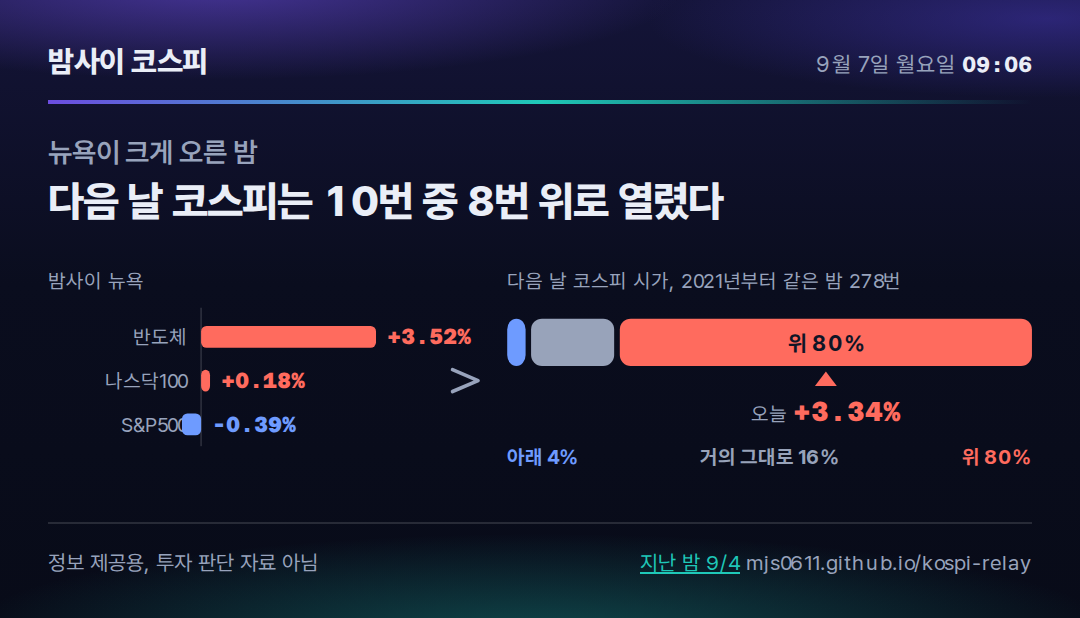
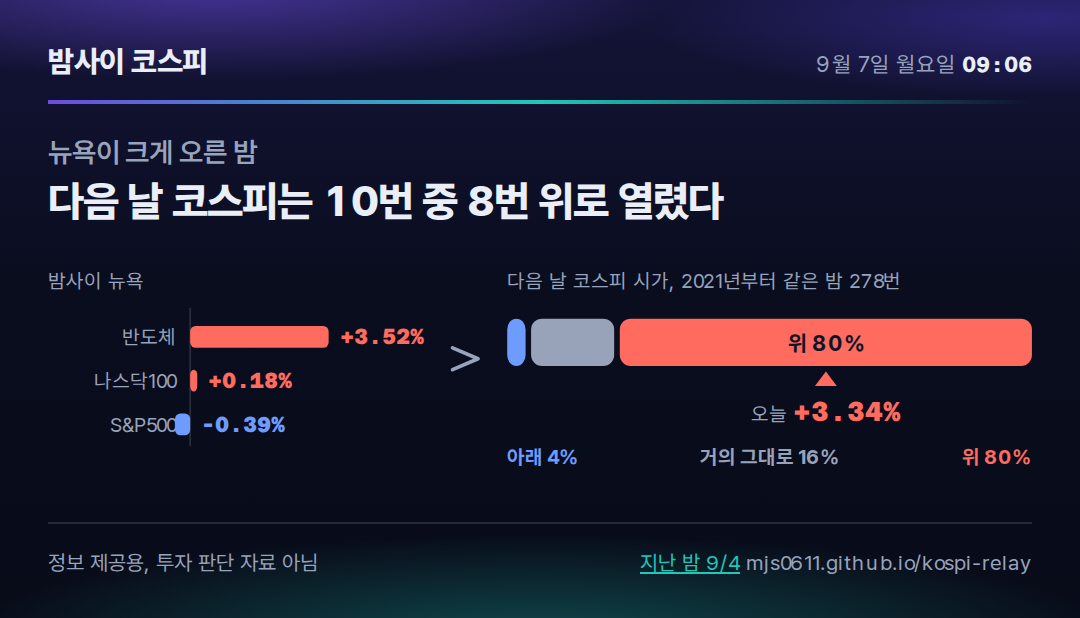
deploy: 02eee11881c2d749679ad032f7b48a28116837a2

Changed region(s): [[0.0917, 0.5227, 0.275, 0.7071], [0.3056, 0.5227, 0.4583, 0.6456]]

diff --git a/2026-09-07/index.html b/2026-09-07/index.html
@@ -37,17 +37,17 @@ footer a{color:var(--dawn)}
 <p class="cond">뉴욕이 크게 오른 밤</p><p class="claim">다음 날 코스피는 10번 중 8번 위로 열렸다</p>
 <div class="chart"><svg viewBox="0 0 540 118" xmlns="http://www.w3.org/2000/svg" font-family="var(--sans)">
 <text x="0" y="13" fill="var(--muted)" font-size="11">밤사이 뉴욕</text>
-<line x1="84" y1="24" x2="84" y2="100" stroke="var(--rule)" stroke-width="1"/>
-<text x="76" y="44" text-anchor="end" fill="var(--muted)" font-size="11">반도체</text>
-<rect x="84.0" y="34" width="96.0" height="12" rx="3" fill="var(--up)"/>
-<text x="186.0" y="44" fill="var(--up)" font-family="var(--mono)" font-size="12" font-weight="800">+3.52%</text>
-<text x="76" y="68" text-anchor="end" fill="var(--muted)" font-size="11">나스닥100</text>
-<rect x="84.0" y="58" width="4.9" height="12" rx="3" fill="var(--up)"/>
-<text x="94.9" y="68" fill="var(--up)" font-family="var(--mono)" font-size="12" font-weight="800">+0.18%</text>
-<text x="76" y="92" text-anchor="end" fill="var(--muted)" font-size="11">S&P500</text>
-<rect x="73.5" y="82" width="10.5" height="12" rx="3" fill="var(--down)"/>
-<text x="90.0" y="92" fill="var(--down)" font-family="var(--mono)" font-size="12" font-weight="800">-0.39%</text>
-<path d="M222,58 L236,64 L222,70" fill="none" stroke="var(--muted)" stroke-width="2" stroke-linecap="round" stroke-linejoin="round"/>
+<line x1="78" y1="24" x2="78" y2="100" stroke="var(--rule)" stroke-width="1"/>
+<text x="70" y="44" text-anchor="end" fill="var(--muted)" font-size="11">반도체</text>
+<rect x="78.0" y="34" width="76.0" height="12" rx="3" fill="var(--up)"/>
+<text x="160.0" y="44" fill="var(--up)" font-family="var(--mono)" font-size="12" font-weight="800">+3.52%</text>
+<text x="70" y="68" text-anchor="end" fill="var(--muted)" font-size="11">나스닥100</text>
+<rect x="78.0" y="58" width="3.9" height="12" rx="3" fill="var(--up)"/>
+<text x="87.9" y="68" fill="var(--up)" font-family="var(--mono)" font-size="12" font-weight="800">+0.18%</text>
+<text x="70" y="92" text-anchor="end" fill="var(--muted)" font-size="11">S&P500</text>
+<rect x="69.7" y="82" width="8.3" height="12" rx="3" fill="var(--down)"/>
+<text x="84.0" y="92" fill="var(--down)" font-family="var(--mono)" font-size="12" font-weight="800">-0.39%</text>
+<path d="M222,46 L236,52 L222,58" fill="none" stroke="var(--muted)" stroke-width="2" stroke-linecap="round" stroke-linejoin="round"/>
 <text x="252" y="13" fill="var(--muted)" font-size="11">다음 날 코스피 시가, 2021년부터 같은 밤 278번</text>
 <rect x="252.0" y="30" width="10.1" height="26" rx="6" fill="var(--down)"/>
 <rect x="265.1" y="30" width="45.6" height="26" rx="6" fill="var(--flat)"/>
@@ -59,5 +59,5 @@ footer a{color:var(--dawn)}
 <path d="M420.9,67 L432.9,67 L426.9,59 Z" fill="var(--up)"/>
 <text x="426.9" y="86" text-anchor="middle"><tspan fill="var(--muted)" font-size="11">오늘 </tspan><tspan font-family="var(--mono)" font-size="15" font-weight="800" fill="var(--up)">+3.34%</tspan></text>
 </svg></div>
-<footer><span>정보 제공용, 투자 판단 자료 아님</span><span style="white-space:nowrap">mjs0611.github.io/kospi-relay</span></footer>
+<footer><span>정보 제공용, 투자 판단 자료 아님</span><span style="white-space:nowrap"><a href="../2026-09-04/">지난 밤 9/4</a> mjs0611.github.io/kospi-relay</span></footer>
 </div></body></html>

diff --git a/index.html b/index.html
@@ -37,17 +37,17 @@ footer a{color:var(--dawn)}
 <p class="cond">뉴욕이 크게 오른 밤</p><p class="claim">다음 날 코스피는 10번 중 8번 위로 열렸다</p>
 <div class="chart"><svg viewBox="0 0 540 118" xmlns="http://www.w3.org/2000/svg" font-family="var(--sans)">
 <text x="0" y="13" fill="var(--muted)" font-size="11">밤사이 뉴욕</text>
-<line x1="84" y1="24" x2="84" y2="100" stroke="var(--rule)" stroke-width="1"/>
-<text x="76" y="44" text-anchor="end" fill="var(--muted)" font-size="11">반도체</text>
-<rect x="84.0" y="34" width="96.0" height="12" rx="3" fill="var(--up)"/>
-<text x="186.0" y="44" fill="var(--up)" font-family="var(--mono)" font-size="12" font-weight="800">+3.52%</text>
-<text x="76" y="68" text-anchor="end" fill="var(--muted)" font-size="11">나스닥100</text>
-<rect x="84.0" y="58" width="4.9" height="12" rx="3" fill="var(--up)"/>
-<text x="94.9" y="68" fill="var(--up)" font-family="var(--mono)" font-size="12" font-weight="800">+0.18%</text>
-<text x="76" y="92" text-anchor="end" fill="var(--muted)" font-size="11">S&P500</text>
-<rect x="73.5" y="82" width="10.5" height="12" rx="3" fill="var(--down)"/>
-<text x="90.0" y="92" fill="var(--down)" font-family="var(--mono)" font-size="12" font-weight="800">-0.39%</text>
-<path d="M222,58 L236,64 L222,70" fill="none" stroke="var(--muted)" stroke-width="2" stroke-linecap="round" stroke-linejoin="round"/>
+<line x1="78" y1="24" x2="78" y2="100" stroke="var(--rule)" stroke-width="1"/>
+<text x="70" y="44" text-anchor="end" fill="var(--muted)" font-size="11">반도체</text>
+<rect x="78.0" y="34" width="76.0" height="12" rx="3" fill="var(--up)"/>
+<text x="160.0" y="44" fill="var(--up)" font-family="var(--mono)" font-size="12" font-weight="800">+3.52%</text>
+<text x="70" y="68" text-anchor="end" fill="var(--muted)" font-size="11">나스닥100</text>
+<rect x="78.0" y="58" width="3.9" height="12" rx="3" fill="var(--up)"/>
+<text x="87.9" y="68" fill="var(--up)" font-family="var(--mono)" font-size="12" font-weight="800">+0.18%</text>
+<text x="70" y="92" text-anchor="end" fill="var(--muted)" font-size="11">S&P500</text>
+<rect x="69.7" y="82" width="8.3" height="12" rx="3" fill="var(--down)"/>
+<text x="84.0" y="92" fill="var(--down)" font-family="var(--mono)" font-size="12" font-weight="800">-0.39%</text>
+<path d="M222,46 L236,52 L222,58" fill="none" stroke="var(--muted)" stroke-width="2" stroke-linecap="round" stroke-linejoin="round"/>
 <text x="252" y="13" fill="var(--muted)" font-size="11">다음 날 코스피 시가, 2021년부터 같은 밤 278번</text>
 <rect x="252.0" y="30" width="10.1" height="26" rx="6" fill="var(--down)"/>
 <rect x="265.1" y="30" width="45.6" height="26" rx="6" fill="var(--flat)"/>
